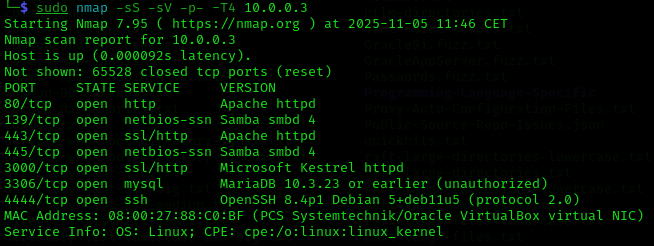
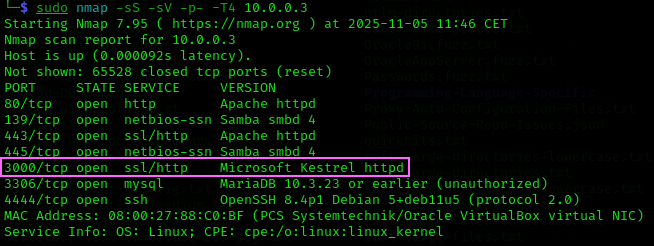
16-12-25

Changed region(s): [[0.0, 0.7114, 0.6422, 0.7398], [0.0, 0.626, 0.6422, 0.6545]]

diff --git a/Exo_AIS/Pentest/Pentest_Web.md b/Exo_AIS/Pentest/Pentest_Web.md
@@ -21,23 +21,68 @@
 
 ### Détection des services et versions
 
+
 ```sh
-sudo nmap -sS -sV -p- -T4 <IP> 
+sudo nmap -sS -sV -p- <IP> 
 ```
+* `-sS` = scan SYN (n’établit pas la connexion complète, rapide et discret)
+* `-sV` : détecte les versions des services
+
 ![alt text](<nmap service.png>)
 
-### Scan agressif (OS, version, scripts) — plus bruyant
+Beaucoup de ports sont ouverts sur cette machine, celui qui nous interesse est le port 3000
+
+<br>
+
+### Scan plus bruyant et agressif (OS, version, scripts)
+
+
 ```sh
-sudo nmap -sS -A -p- -T4 <IP>
+sudo nmap -A -p 3000 -T4 <IP>
 ```
+* `-A` : versions + OS detection + scripts NSE + traceroute
+* `-T4` = scan plus rapide (pratique en lab / CTF)
 
-![alt text](<nmap more detailed services.png>)
-
-
+![alt text](<nmap-A.png>)
 
 
 <br>
 
+<table>
+  <tr>
+    <td>1.</td>
+    <td><strong>TLS-ALPN (h2, http/1.1)</strong></td>
+    <td>→</td>
+    <td>Indice d’API interne / dev, souvent moins sécurisée</td>
+  </tr>
+  <tr>
+    <td>2.</td>
+    <td><strong>SSL-CERT</strong></td>
+    <td>→</td>
+    <td>Certificat auto-signé (CN=localhost) + dates</td>
+  </tr>
+  <tr>
+    <td>3.</td>
+    <td><strong>HTTP-AUTH</strong></td>
+    <td>→</td>
+    <td>401 sans WWW-Authenticate + header Kestrel (candidat fuzz / bypass auth)</td>
+  </tr>
+  <tr>
+    <td>4.</td>
+    <td><strong>OS GUESS</strong></td>
+    <td>→</td>
+    <td>Estimation de l’OS (aide au choix des exploits / payloads)</td>
+  </tr>
+  <tr>
+    <td>5.</td>
+    <td><strong>TRACEROUTE</strong></td>
+    <td>→</td>
+    <td>Cible directement accessible (pas de firewall intermédiaire visible)</td>
+  </tr>
+</table>
+
+
+<br>
 
 
 ## __ÉNUMÉRATION__
